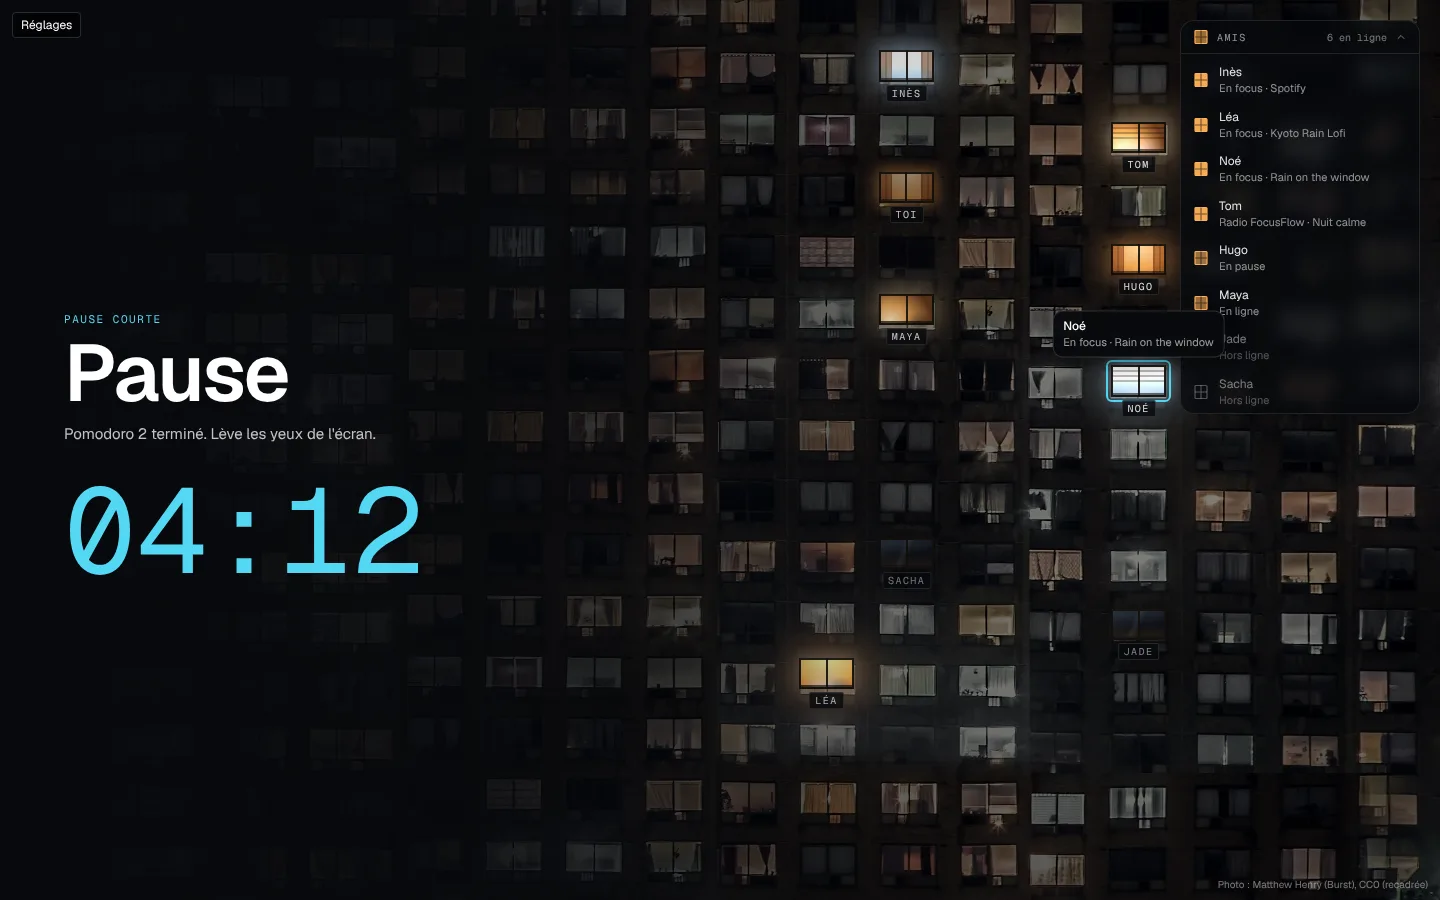
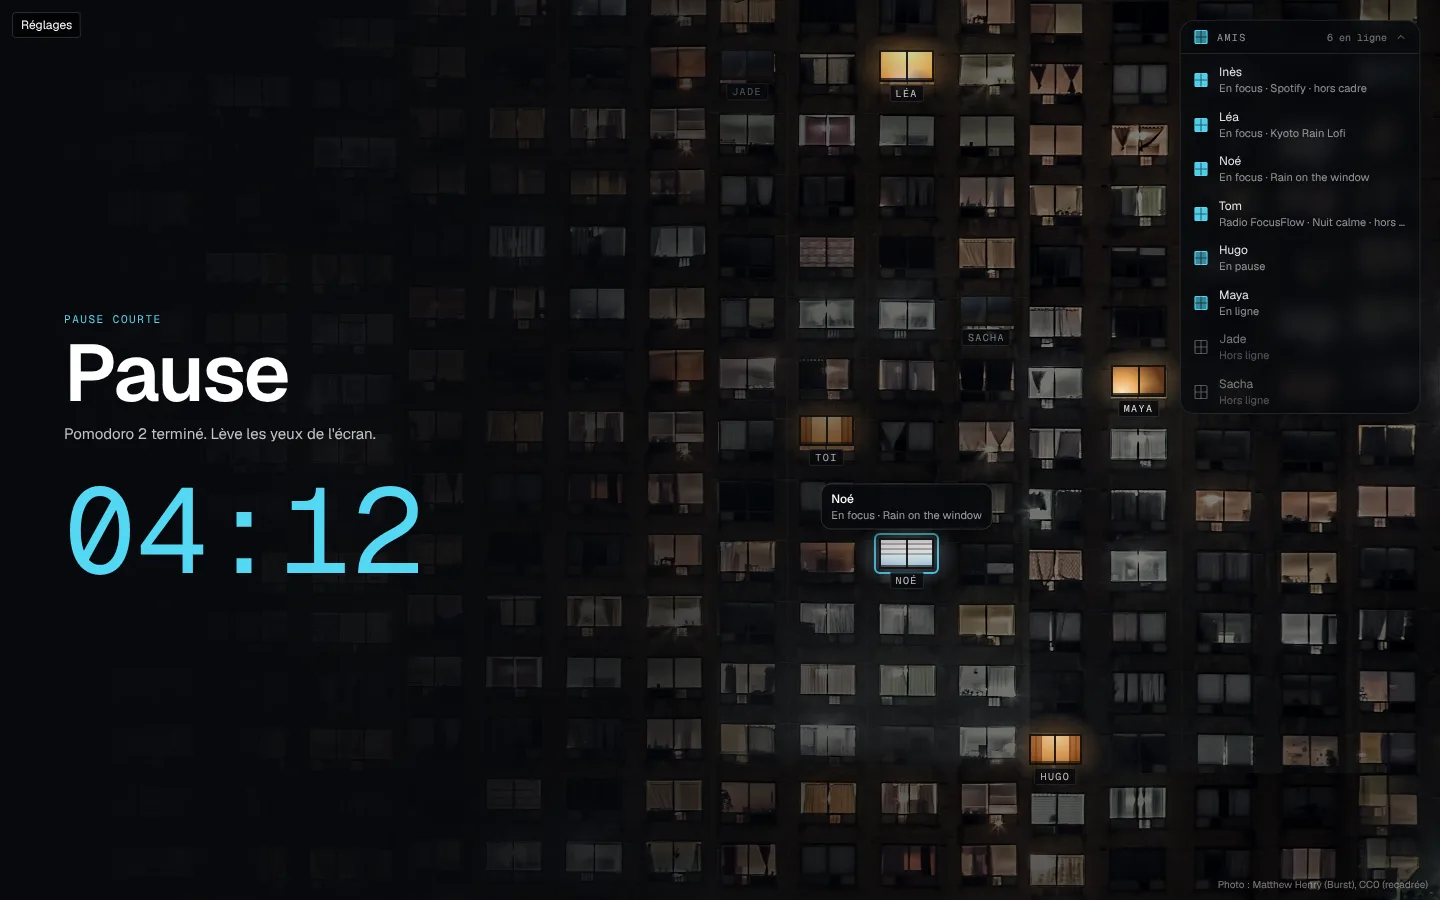
fix(amis): corrections de relecture de Ta rue
Attribution stable sur les 39 fenetres (meme fenetre quel que soit
l'ecran, hors cadre signale), allumes d'abord, fenetres accessibles au
clavier et resume pour lecteur d'ecran, neons decales, fenetres affichees
apres la photo, halo en opacite.

Claude-Session: https://claude.ai/code/session_013Xw59mox4JYN69fiQbHMDK

diff --git a/e2e/lab-amis.spec.ts b/e2e/lab-amis.spec.ts
@@ -6,19 +6,24 @@ test("Ta rue : plaques, états des fenêtres et ami qui s'allume", async ({ page
   await prepare(page);
   const res = await page.goto("/lab/amis");
   test.skip(res?.status() === 404, "Banc d'essai désactivé (build sans NEXT_PUBLIC_LAB=1).");
-  const plates = page.getByTestId("ff-plate");
-  await expect(plates).toHaveCount(9);
-  await expect(plates.filter({ hasText: "Toi" })).toHaveCount(1);
+  const expected: Record<string, string> = {
+    Toi: "on", Léa: "focus", Tom: "focus", Inès: "focus", Hugo: "on", Maya: "on", Noé: "off", Sacha: "off", Jade: "off",
+  };
   const wins = page.getByTestId("ff-win");
-  await expect(wins.and(page.locator('[data-state="focus"]'))).toHaveCount(3);
-  await expect(wins.and(page.locator('[data-state="on"]'))).toHaveCount(3); // 2 amis en ligne + toi
-  await expect(wins.and(page.locator('[data-lit="0"]'))).toHaveCount(3);
-  // Noé (hors ligne) passe en focus : sa fenêtre s'allume.
+  await expect(wins.first()).toBeVisible();
+  const list = page.getByRole("region", { name: "Amis" });
+  await expect(list.getByRole("listitem")).toHaveCount(8);
+  // Chaque fenêtre visible a la plaque et l'état de son ami ; les autres sont « hors cadre ».
+  const shown = await wins.evaluateAll((els) => els.map((e) => [e.querySelector('[data-testid="ff-plate"]')!.textContent!, (e as HTMLElement).dataset.state!]));
+  for (const [name, st] of shown) expect(st).toBe(expected[name]);
+  const friendsShown = shown.filter(([n]) => n !== "Toi").length;
+  await expect(list.getByRole("listitem").filter({ hasText: "hors cadre" })).toHaveCount(8 - friendsShown);
+  expect(friendsShown).toBeGreaterThanOrEqual(3);
+  // Noé (hors ligne) passe en focus : sa fenêtre s'allume (ou sa ligne le dit s'il est hors cadre).
   await page.getByTestId("toggle-lab-ami-5").click();
-  await expect(wins.and(page.locator('[data-lit="0"]'))).toHaveCount(2);
-  await expect(wins.and(page.locator('[data-state="focus"]'))).toHaveCount(4);
-  // La liste reste à côté, avec tout le monde.
-  await expect(page.getByRole("region", { name: "Amis" }).getByRole("listitem")).toHaveCount(8);
+  const noe = wins.filter({ has: page.getByTestId("ff-plate").filter({ hasText: /^Noé$/ }) });
+  if (await noe.count()) await expect(noe).toHaveAttribute("data-state", "focus");
+  await expect(list.getByRole("listitem").filter({ hasText: "Noé" })).toContainText("En focus");
 });
 
 test("Ta rue : même fenêtre sur tous les écrans, sinon « hors cadre », bulle au clavier", async ({ page }) => {
@@ -26,20 +31,25 @@ test("Ta rue : même fenêtre sur tous les écrans, sinon « hors cadre », bull
   const res = await page.goto("/lab/amis");
   test.skip(res?.status() === 404, "Banc d'essai désactivé (build sans NEXT_PUBLIC_LAB=1).");
   const winOf = async (name: string) => {
-    const w = page.getByTestId("ff-win").filter({ has: page.getByTestId("ff-plate").getByText(name, { exact: true }) });
+    const w = page.getByTestId("ff-win").filter({ has: page.getByTestId("ff-plate").filter({ hasText: new RegExp(`^${name}$`) }) });
     return (await w.count()) ? w.getAttribute("data-window") : null;
   };
-  await expect(page.getByTestId("ff-plate")).toHaveCount(9);
+  await expect(page.getByTestId("ff-win").first()).toBeVisible();
   const names = ["Léa", "Tom", "Inès", "Hugo", "Maya", "Noé", "Sacha", "Jade"];
   const before = Object.fromEntries(await Promise.all(names.map(async (n) => [n, await winOf(n)])));
+  expect(Object.values(before).filter(Boolean).length).toBeGreaterThanOrEqual(3);
   await page.setViewportSize({ width: 390, height: 844 });
-  await page.waitForTimeout(500);
+  // La façade se recadre (redimensionnement regroupé par image) : on attend que Maya
+  // (masquée sur grand écran, visible sur téléphone à ce cadrage) ait sa fenêtre.
+  await expect(page.getByTestId("ff-win").filter({ hasText: "Maya" })).toHaveCount(1);
   const list = page.getByRole("region", { name: "Amis" });
-  await list.getByRole("button").click(); // repliée sur téléphone
+  await page.getByRole("button", { name: "Masquer les réglages" }).click();
+  const toggle = list.getByRole("button");
+  if ((await toggle.getAttribute("aria-expanded")) !== "true") await toggle.click();
   for (const n of names) {
     const now = await winOf(n);
-    if (now && before[n]) expect(now).toBe(before[n]);
-    else await expect(list.getByRole("listitem").filter({ hasText: n })).toContainText("hors cadre");
+    if (!now) await expect(list.getByRole("listitem").filter({ hasText: n })).toContainText("hors cadre");
+    else if (before[n]) expect(now).toBe(before[n]);
   }
   // Clavier : une fenêtre prend le focus et montre sa bulle.
   await page.getByTestId("ff-win").first().focus();

diff --git a/CLAUDE.md b/CLAUDE.md
@@ -208,9 +208,12 @@ choisir le média, qui enchaîne sur `/settings`. Les **routines** appliquent le
   prénom ; en ligne = lumière chaude (tungstène, lampe ou néon froid, rideau/store/rien selon l'ami),
   en focus = plus vive + lueur d'écran, hors ligne = verre sombre. Allumage : fondu, ou néon qui
   s'amorce en 3 battements sous 3 Hz ; rien sous mouvement réduit. Tout en CSS (`.ff-win` dans
-  `globals.css`), aucun travail par image côté JS. Seules les fenêtres hors du texte de la pause et
-  de la liste sont attribuées (`pauseZones`), donc l'attribution dépend de la taille d'écran.
-  Survol/toucher = bulle (portail). Mode Spotify : inchangé (rue + fenêtres du lot 8), pour ne pas
+  `globals.css`), aucun travail par image côté JS. Attribution sur les 39 fenêtres (stable quel que
+  soit l'écran ; plus d'amis que de fenêtres = les allumés d'abord), puis les fenêtres sous le texte
+  de la pause ou la liste sont MASQUÉES (`pauseZones`) et l'ami est « hors cadre » dans la liste.
+  Calques affichés après le chargement de la photo ; néons décalés (jamais deux battements
+  ensemble) ; halo en pseudo-élément animé en opacité. Accessibilité : résumé complet en sr-only,
+  fenêtres focusables (bulle au focus). Survol/toucher = bulle (portail), pas sur un bouton. Mode Spotify : inchangé (rue + fenêtres du lot 8), pour ne pas
   charger l'écran de session (réplique de la landing). Banc d'essai : `/lab/amis`.
 
 **Organisation (onglets « Aujourd'hui » & « Organisation »)**
